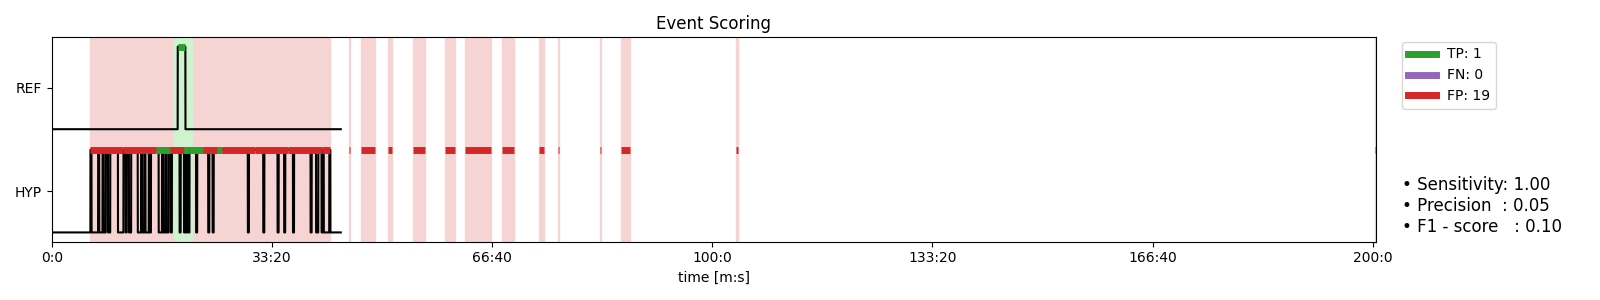
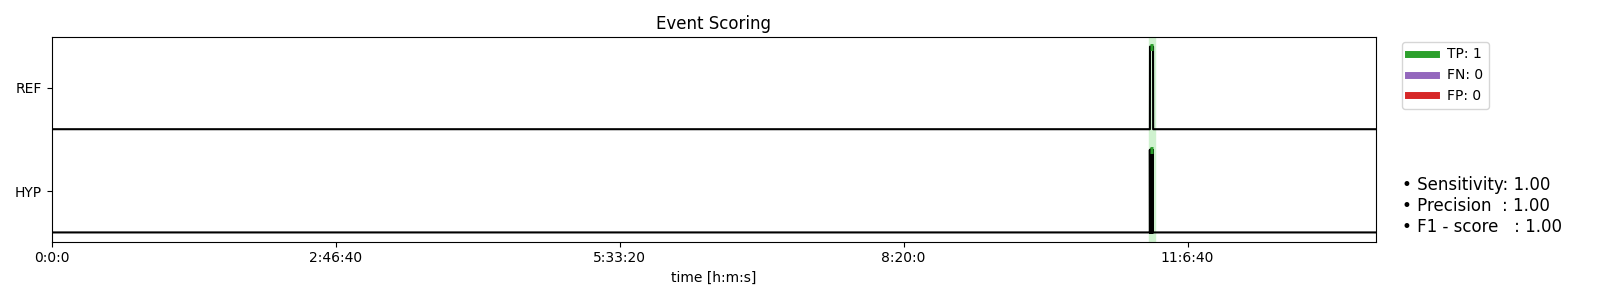
fix some bugs

diff --git a/dataloader.py b/dataloader.py
@@ -128,7 +128,7 @@ def sample_non_seizure_intervals(event_infos, total_duration=0, n
 
     return pd.DataFrame(no_event_intervals)
 
-def extract_epochs(file_path, event_info, downsample=2.0, event_offset=100, epoch_duration=10, epoch_overlap=5):
+def extract_epochs(file_path, event_info, downsample=2.0, event_offset=60, epoch_duration=10, epoch_overlap=5):
     """
     Extract seizure and nonseizure epochs from a specific recording based on subject, session, task, and run.
 
@@ -138,11 +138,11 @@ def extract_epochs(file_path, event_info, downsample=2.0, event_offset=100, epoc
     raw_data = read_raw_edf(file_path, preload=True)
 
     # map the channel name from .tsv and .edf
-    # mapping = {
-    #     ch: ch[:1].upper() + ch[1:2].lower() + ch[2:]
-    #     for ch in raw_data.ch_names
-    # }
-    # raw_data.rename_channels(mapping)
+    mapping = {
+        ch: ch[:1].upper() + ch[1:2].lower() + ch[2:]
+        for ch in raw_data.ch_names
+    }
+    raw_data.rename_channels(mapping)
 
     # Check if the specified channel is in the data
     desired_channels = []
@@ -184,7 +184,7 @@ def extract_epochs(file_path, event_info, downsample=2.0, event_offset=100, epoc
     updated_event_infos = pd.DataFrame(updated_event_infos)
 
     no_event_info = sample_non_seizure_intervals(updated_event_infos, total_duration=raw_data._last_time, n
-    =1)
+    =10)
 
     epochs, labels = [], []
     for i, info in updated_event_infos.iterrows():
@@ -193,16 +193,20 @@ def extract_epochs(file_path, event_info, downsample=2.0, event_offset=100, epoc
         e = make_fixed_length_epochs(raw_copy, duration=epoch_duration,
                                             overlap=epoch_overlap, preload=True)
         label = []
+        time_start = []
+        time_end = []
         for t in e.events:
             t_start = t[0] / raw_copy.info["sfreq"]
-            t_end = (t[0] + epoch_duration) / raw_copy.info["sfreq"]
+            t_end = t[0] / raw_copy.info["sfreq"] + epoch_duration
             # if the epoch has overlap with seizure, label it as seizure
             if t_end > event_info["onset"][i] and t_start < event_info["onset"][i] + event_info["duration"][i] : 
                 label.append(1)
             else:
                 label.append(0)
+            time_start.append(t_start)
+            time_end.append(t_end)
          # label the epochs, 1: seizure, 0: non-seizure       
-        e.metadata=pd.DataFrame({"label": label})
+        e.metadata=pd.DataFrame({"label": label, "time_start": time_start, "time_end": time_end})
         epochs.append(e)
 
 
@@ -210,13 +214,15 @@ def extract_epochs(file_path, event_info, downsample=2.0, event_offset=100, epoc
         raw_copy = raw_data.copy().crop(info["onset"], info["onset"] + info["duration"], verbose=False)
         e = make_fixed_length_epochs(raw_copy, duration=epoch_duration,
                                             overlap=epoch_overlap, preload=True, verbose=False)
+        time_start = [t[0] / raw_copy.info["sfreq"] for t in e.events]
+        time_end = [t[0] / raw_copy.info["sfreq"] + epoch_duration for t in e.events]
         label = [0] * len(e.events)
-        e.metadata=pd.DataFrame({"label": label})
+        e.metadata=pd.DataFrame({"label": label, "time_start": time_start, "time_end": time_end})
         epochs.append(e)
 
     return epochs
 
-def process_recording(ids, bids_root, downsample=2.0, epoch_duration=10, epoch_overlap=5, event_offset=60):
+def process_recording(ids, bids_root, downsample=2.0, epoch_duration=10, epoch_overlap=0, event_offset=60):
     event_info = extract_event_info(get_path_from_ids(ids, bids_root, get_abs_path=True, file_format="tsv"))
     epochs = extract_epochs(get_path_from_ids(ids, bids_root, get_abs_path=True, file_format="edf"), 
                             event_info, downsample, event_offset, epoch_duration, epoch_overlap)
@@ -230,8 +236,8 @@ def process_recording(ids, bids_root, downsample=2.0, epoch_duration=10, epoch_o
         
         n_epochs, n_channels, n_times = epoch.shape
         
-        epoch = epoch.reshape(n_epochs * n_channels, n_times)
-        epoch_labels = np.tile(ep.metadata["label"], (n_channels))
+        #epoch = epoch.reshape(n_epochs * n_channels, n_times)
+        # epoch_labels = np.tile(ep.metadata["label"], (n_channels))
         
         segments.append({"epoch": epoch, "label": epoch_labels})
         # TODO: Add properties that allows trace back to the original recording
@@ -243,7 +249,7 @@ def read_siena_dataset(bids_root, max_workers=4):
 
     if max_workers == 1:
         for ids in recording_ids:
-            segment = process_recording(ids, bids_root, epoch_duration=10, epoch_overlap=5, event_offset=100)
+            segment = process_recording(ids, bids_root, epoch_duration=10, epoch_overlap=0, event_offset=60)
             segments.extend(segment)
     else:
         # multirpocessing in cpu

diff --git a/evaluate.py b/evaluate.py
@@ -75,7 +75,8 @@ def evaluate_recording(edf_path, tsv_path, model_path, downsample=2.0, epoch_dur
     # raw_data.pick_channels(desired_channels, verbose=False)
     total_duration = raw_data._last_time
     fs = raw_data.info["sfreq"] / downsample # final sampling freq after downsample
-    n_samples = int(total_duration * fs)#?
+
+    
 
     # Build reference Annotation (ref) from .tsv
     
@@ -96,10 +97,16 @@ def evaluate_recording(edf_path, tsv_path, model_path, downsample=2.0, epoch_dur
     df_tsv = pd.read_csv(tsv_path, sep='\t')
     ref_events = []
     for _, row in df_tsv.iterrows():
-        start_sample = int(row['onset'])
-        end_sample = int(row['onset'] + row['duration'])
-        ref_events.append((start_sample, end_sample))
-    ref = Annotation(ref_events, fs, n_samples) 
+        start_time = int(row['onset'])
+        end_time = int(row['onset'] + row['duration'])
+        #divide the time into epochs
+        # for i in range(start_time, end_time, epoch_duration):
+        #     ref_events.append((i, i + epoch_duration))
+        ref_events.append((start_time, end_time))
+
+    n_samples = int(total_duration * fs)#?
+
+    ref = Annotation(ref_events, fs, n_samples)
 
 
     # Build hypothesis Annotation (hyp) from predicted label=1 epochs
@@ -112,14 +119,19 @@ def evaluate_recording(edf_path, tsv_path, model_path, downsample=2.0, epoch_dur
     for ep in epochs:
         epoch = ep.get_data() # shape (n_epochs, n_channels, n_times)
         epoch_labels = ep.metadata["label"].to_numpy()
+        time_start = ep.metadata["time_start"].to_numpy()
+        time_end = ep.metadata["time_end"].to_numpy()
         n_epochs, n_channels, n_times = epoch.shape
-        epoch = epoch.reshape(n_epochs * n_channels, n_times)
-        epoch_labels = np.tile(ep.metadata["label"], (n_channels))
+        #epoch = epoch.reshape(n_epochs * n_channels, n_times)
+        #epoch_labels = np.tile(ep.metadata["label"], (n_channels))
 
-        segments.append({"epoch": epoch, "label": epoch_labels}) 
+        segments.append({"epoch": epoch, "label": epoch_labels, "time_start": time_start, "time_end": time_end}) 
 
     X_test = np.concatenate([s["epoch"] for s in segments]).astype(np.float32)
-    X_test = X_test[:, np.newaxis, :]
+    y_test = np.concatenate([s["label"] for s in segments]).astype(int)
+    time_start_test = np.concatenate([s["time_start"] for s in segments])
+    time_end_test = np.concatenate([s["time_end"] for s in segments])
+    #X_test = X_test[:, np.newaxis, :]
     del segments
     device = torch.device("cuda" if torch.cuda.is_available() else "cpu")
 
@@ -127,12 +139,13 @@ def evaluate_recording(edf_path, tsv_path, model_path, downsample=2.0, epoch_dur
     end_model_time = time.time()
     print(f"Model prediction took: {end_model_time - start_model_time:.2f} seconds")
     hyp_events = []
-    for i, pred in enumerate(y_pred):
+    
+    for pred, time_start, time_end in zip(y_pred, time_start_test, time_end_test):
         if pred == 1:
-            start_sample = i * epoch_duration
-            end_sample = (i + 1) * epoch_duration
-            hyp_events.append((start_sample, end_sample))
+            hyp_events.append((time_start, time_end))
+
     hyp = Annotation(hyp_events, fs, n_samples)
+    
 
     # Compute sample-based scoring
     sample_scores = SampleScoring(ref, hyp)
@@ -147,19 +160,26 @@ def evaluate_recording(edf_path, tsv_path, model_path, downsample=2.0, epoch_dur
     toleranceStart=30,
     toleranceEnd=60,
     minOverlap=0,
-    maxEventDuration=5 * 60,
+    maxEventDuration=5*60,
     minDurationBetweenEvents=90)
     event_scores = scoring.EventScoring(ref, hyp, param)
     figEvents = visualization.plotEventScoring(ref, hyp, param)
     print("[Event-based] Sensitivity:", event_scores.sensitivity)
     print("[Event-based] Precision:", event_scores.precision)
     print("[Event-based] F1-score:", event_scores.f1)
+
+    from analysis import Analyzer
+
+    analyzer = Analyzer(print_conf_mat=True)
+    analyzer.analyze_classification(y_pred, y_test, ['normal', 'seizure'])
+    accuracy = np.mean(y_pred == y_test)
+    print(f"Model accuracy: {accuracy:.2f}")
     
     plt.show()
     
 
 if __name__ == "__main__":
-    edf_path = "E:\BIDS_Siena\sub-00\ses-01\eeg\sub-00_ses-01_task-szMonitoring_run-00_eeg.edf"
-    tsv_path = "E:\BIDS_Siena\sub-00\ses-01\eeg\sub-00_ses-01_task-szMonitoring_run-00_events.tsv"
-    model_path = "D:\seizure\models\detach_minirocket_2.pkl"
+    edf_path = "E:\BIDS_Siena\sub-03\ses-01\eeg\sub-03_ses-01_task-szMonitoring_run-00_eeg.edf"
+    tsv_path = "E:\BIDS_Siena\sub-03\ses-01\eeg\sub-03_ses-01_task-szMonitoring_run-00_events.tsv"
+    model_path = "D:\seizure\models\detach_minirocket_multivariate.pkl"
     evaluate_recording(edf_path, tsv_path, model_path)

diff --git a/pipeline.py b/pipeline.py
@@ -114,7 +114,7 @@ if __name__ == "__main__":
     #only in desired channels?
     X = np.concatenate([s['epoch'] for s in segments]).astype(np.float32)
     y = np.concatenate([s['label'] for s in segments]).astype(int)
-    X = X[:, np.newaxis, :] # uncomment if use detach_rocket
+    #X = X[:, np.newaxis, :] # uncomment if use detach_rocket
     print(X.shape, y.shape)
 
     # In case of overflow
@@ -142,12 +142,12 @@ if __name__ == "__main__":
     print(f"Model prediction took: {end_model_time - start_model_time:.2f} seconds")
 
     analyzer = Analyzer(print_conf_mat=True)
-    analyzer.analyze_classification(y_test, y_pred, ['normal', 'seizure'])
+    analyzer.analyze_classification(y_pred, y_test, ['normal', 'seizure'])
     accuracy = np.mean(y_pred == y_test)
     print(f"Model accuracy: {accuracy:.2f}")
 
     # save model
-    joblib.dump(model, 'D:/seizure/models/detach_minirocket_2.pkl')
+    joblib.dump(model, 'D:/seizure/models/detach_minirocket_multivariate.pkl')
 
 
 

diff --git a/pipeline_tsai.py b/pipeline_tsai.py
@@ -117,7 +117,7 @@ if __name__ == "__main__":
 
     y_test = y[splits[1]]
     analyzer = Analyzer(print_conf_mat=True)
-    analyzer.analyze_classification(y_test, preds, ['normal', 'seizure'])
+    analyzer.analyze_classification(preds, y_test, ['normal', 'seizure'])
     accuracy = np.mean(preds == y_test)
     print(f"Model accuracy: {accuracy:.2f}")
 
